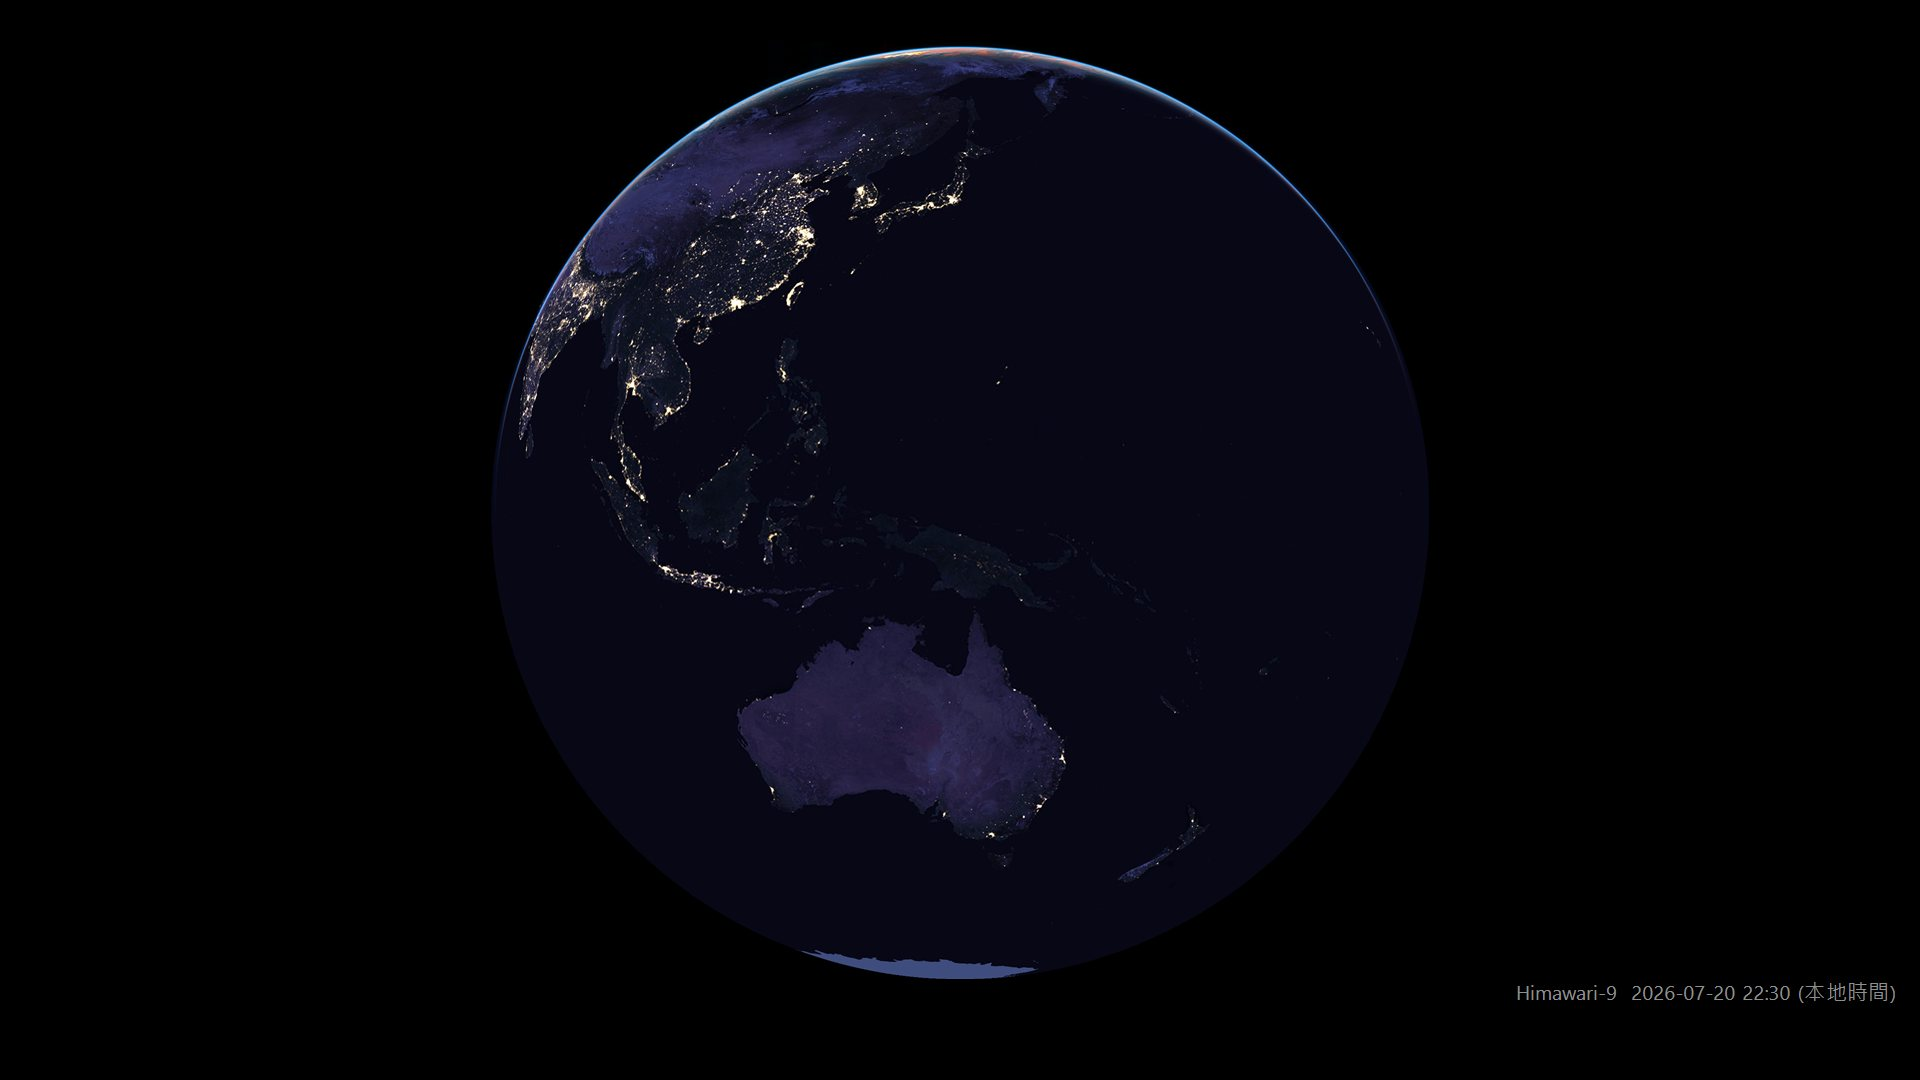
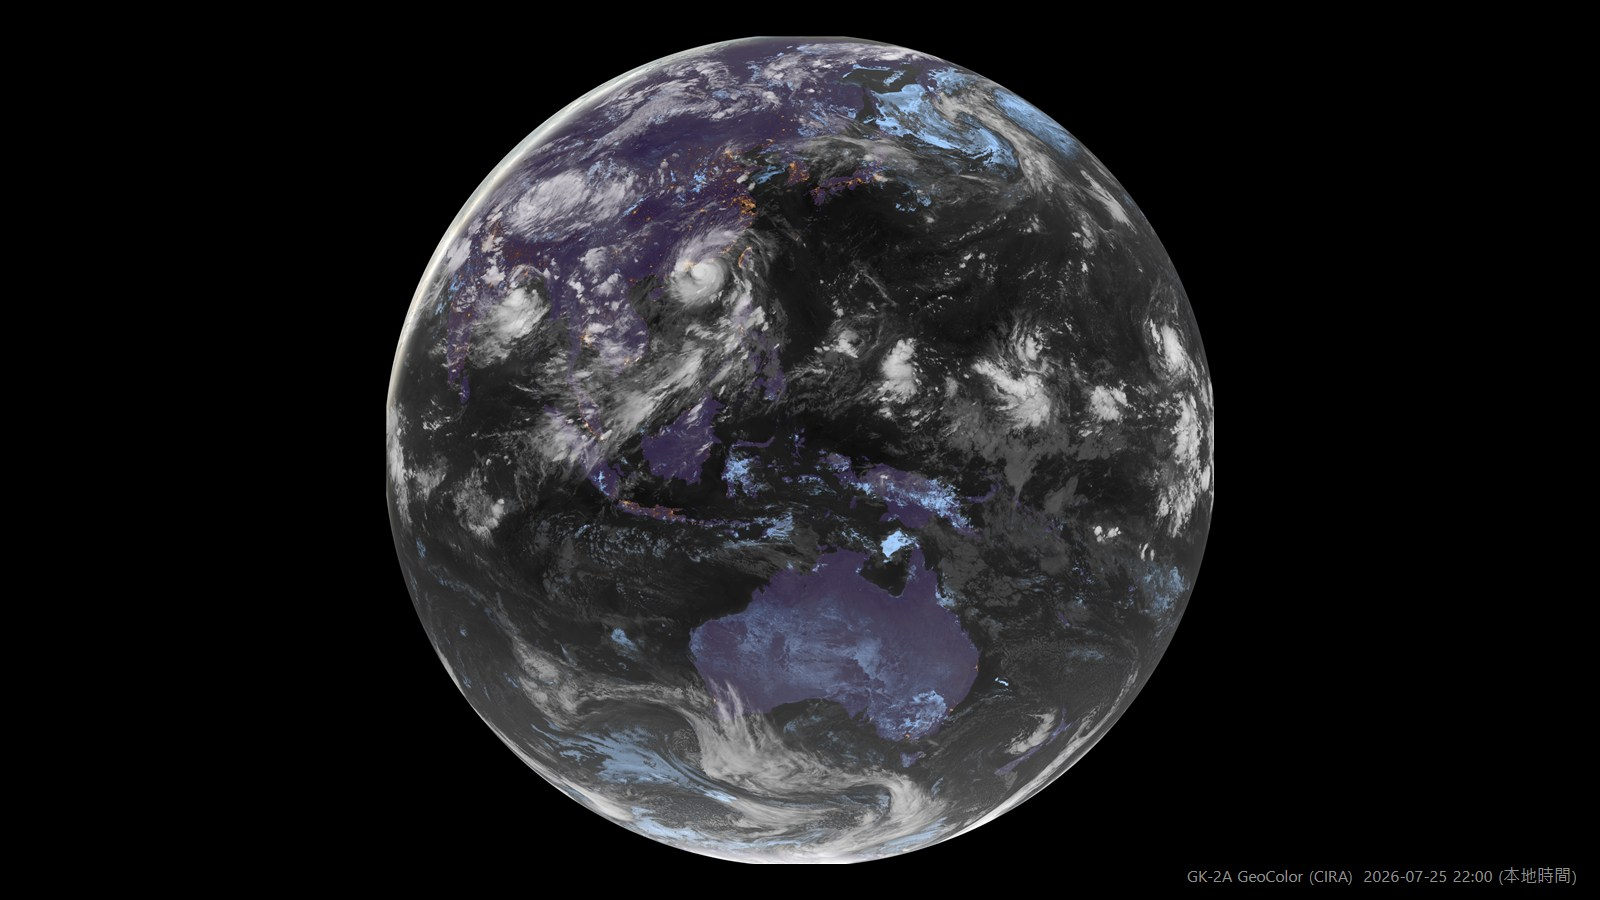
更新專案圖片為 GeoColor 實際輸出
原本的 screenshot.jpg 是舊版 Himawari 疊 Black Marble 的夜面，
幾乎全黑，已無法代表目前成果。

改為兩張 GK-2A GeoColor 的實際桌布輸出（1600x900、NightBoost 1.5）：
- screenshot.jpg     台灣時間 22:00，整個盤面位於夜側，雲系、颱風、
                     城市燈光與月光下的地表都清楚可見
- screenshot-day.jpg 同日 18:30，晨昏線橫過盤面，展示連續的日夜過渡

diff --git a/README.md b/README.md
@@ -5,6 +5,10 @@
 類似 EarthDesk 的個人小工具：定時把 Windows 桌布換成最新的衛星雲圖。純 PowerShell + 內嵌 C#，無任何外部相依、不需註冊任何服務。
 
 ![夜面雲圖](docs/screenshot.jpg)
+*實際桌布輸出。台灣時間 22:00，整個盤面都在夜側——雲、颱風、城市燈光、月光下的澳洲一應俱全，而不是一片漆黑*
+
+![晨昏線](docs/screenshot-day.jpg)
+*同一天 18:30，晨昏線橫過盤面。GeoColor 的日夜過渡是連續的，不需要在兩種來源之間切換*
 
 ## 功能
 
